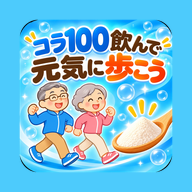
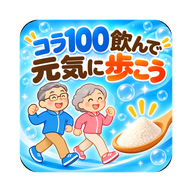
v1.6.0 白を下地に、青をメイン、ビタミンカラーをさし色に。アイコンに白フチ
- 全ページの下地を白に（起動時の背景色も白）
- 押すボタン・★必須・セットの丸・トップの矢印・見本図の頭と関節の輪をビタミンカラー（オレンジ→黄）に
- ホーム画面アイコンに白いフチ。丸く切り抜かれる用も白い地に
- sw.js: キャッシュ standsit-v29

diff --git a/kyokin.html b/kyokin.html
@@ -11,7 +11,7 @@
     @import url('https://fonts.googleapis.com/css2?family=Noto+Sans+JP:wght@400;700;900&display=swap');
     *, *::before, *::after { box-sizing: border-box; margin: 0; padding: 0; }
     :root {
-      --bg: #f5f9ff; --bg2: #e4eefb;
+      --bg: #ffffff; --bg2: #e4eefb;
       --primary: #003884; --primary2: #3f7bd0;
       --speed: #d97b00; --speed2: #f0a030;
       --text: #1c2b45; --text-mid: #4d5d78; --text-dim: #8b9ab3;
@@ -59,7 +59,7 @@
     .ex-name { font-size: 17px; font-weight: 900; margin-bottom: 3px; }
     .ex-sub { font-size: 12.5px; color: var(--text-mid); line-height: 1.5; }
     .cam-tag { display: inline-block; font-size: 11px; font-weight: 700; padding: 1px 8px; border-radius: 100px; margin-left: 4px; background: var(--bg2); color: var(--text-mid); vertical-align: 2px; }
-    .must-tag { display: inline-block; font-size: 11px; font-weight: 900; padding: 1px 8px; border-radius: 100px; margin-right: 4px; background: var(--primary); color: #fff; vertical-align: 2px; }
+    .must-tag { display: inline-block; font-size: 11px; font-weight: 900; padding: 1px 8px; border-radius: 100px; margin-right: 4px; background: #ef6c00; color: #fff; vertical-align: 2px; }
     .must-note { font-size: 12.5px; color: var(--text-mid); margin: -2px 4px 10px; line-height: 1.6; }
     .cam-tag.front { background: rgba(217,123,0,.15); color: var(--speed); }
     .detail {
@@ -76,7 +76,7 @@
     .btn-launch {
       width: 100%; margin-top: 16px; padding: 20px; border: none; border-radius: 100px;
       font-size: 20px; font-weight: 900; font-family: inherit; cursor: pointer; color: #fff;
-      background: linear-gradient(135deg, var(--primary), var(--primary2)); box-shadow: 0 4px 20px var(--shadow);
+      background: linear-gradient(135deg, #ef6c00, #ffa000); box-shadow: 0 4px 20px rgba(239,108,0,.3);
       opacity: .3; pointer-events: none; transition: all .2s;
     }
     .btn-launch.ready { opacity: 1; pointer-events: auto; }
@@ -108,7 +108,7 @@
     .big-label { font-size: 16px; font-weight: 700; color: rgba(255,255,255,.8); letter-spacing: .1em; margin-top: 6px; text-shadow: 0 1px 6px rgba(0,0,0,.4); }
     .set-dots { display: flex; justify-content: center; gap: 8px; margin-top: 12px; }
     .set-dots i { width: 14px; height: 14px; border-radius: 50%; border: 2px solid rgba(255,255,255,.8); }
-    .set-dots i.done { background: var(--primary2); border-color: var(--primary2); }
+    .set-dots i.done { background: #ffb300; border-color: #ffb300; }
 
     /* 動きの大きさゲージ（右端） */
     .gauge { position: fixed; right: 14px; top: 50%; transform: translateY(-50%); width: 26px; height: 46vh; z-index: 20;
@@ -140,7 +140,7 @@
     .btn-row { display: flex; gap: 12px; margin-bottom: 12px; }
     .btn { flex: 1; padding: 18px; border: none; border-radius: 18px; font-size: 18px; font-weight: 900; font-family: inherit; cursor: pointer; transition: all .18s cubic-bezier(.34,1.56,.64,1); }
     .btn:active { transform: scale(.96); }
-    .btn-go { background: linear-gradient(135deg, var(--primary), var(--primary2)); color: #fff; box-shadow: 0 4px 16px var(--shadow); }
+    .btn-go { background: linear-gradient(135deg, #ef6c00, #ffa000); color: #fff; box-shadow: 0 4px 16px rgba(239,108,0,.3); }
     .btn-stop { background: linear-gradient(135deg, var(--danger), #e05555); color: #fff; }
     .btn-sub { flex: 0 0 auto; padding: 18px 18px; background: var(--bg2); color: var(--text-mid); font-size: 16px; }
     .controls-panel.measuring .btn { padding: 12px; font-size: 15px; }
@@ -156,7 +156,7 @@
     #sideOverlay.show { display: flex; }
     .so-side { font-size: 64px; font-weight: 900; color: #ffe066; line-height: 1; text-shadow: 0 2px 12px rgba(0,0,0,.5); }
     .so-text { font-size: 18px; font-weight: 700; color: #fff; line-height: 1.7; text-shadow: 0 1px 6px rgba(0,0,0,.6); }
-    .so-btn { width: 100%; max-width: 320px; padding: 18px; border: none; border-radius: 100px; font-size: 19px; font-weight: 900; font-family: inherit; cursor: pointer; color: #fff; background: linear-gradient(135deg, var(--primary), var(--primary2)); box-shadow: 0 4px 18px var(--shadow); }
+    .so-btn { width: 100%; max-width: 320px; padding: 18px; border: none; border-radius: 100px; font-size: 19px; font-weight: 900; font-family: inherit; cursor: pointer; color: #fff; background: linear-gradient(135deg, #ef6c00, #ffa000); box-shadow: 0 4px 18px rgba(239,108,0,.3); }
     /* ===== まとめ（透明オーバーレイ・カメラが見える） ===== */
     #summary { position: fixed; inset: 0; z-index: 50; display: none; flex-direction: column; align-items: center; justify-content: center; gap: 10px; padding: 30px 26px; background: rgba(0,0,0,.35); }
     #summary.show { display: flex; }
@@ -174,7 +174,7 @@
     .sm-msg { font-size: 15px; color: #fff; text-align: center; line-height: 1.6; text-shadow: 0 1px 6px rgba(0,0,0,.6); }
     .sm-btns { display: flex; flex-direction: column; gap: 10px; width: 100%; max-width: 320px; }
     .cbtn { width: 100%; padding: 17px; border: none; border-radius: 100px; font-size: 18px; font-weight: 900; font-family: inherit; cursor: pointer; text-align: center; text-decoration: none; display: flex; align-items: center; justify-content: center; }
-    .cbtn-save { background: linear-gradient(135deg, var(--primary), var(--primary2)); color: #fff; box-shadow: 0 4px 18px var(--shadow); }
+    .cbtn-save { background: linear-gradient(135deg, #ef6c00, #ffa000); color: #fff; box-shadow: 0 4px 18px rgba(239,108,0,.3); }
     .cbtn-save:disabled { opacity: .55; }
     .cbtn-retry { background: rgba(255,255,255,.92); color: var(--text); }
     .cbtn-home { background: transparent; color: rgba(255,255,255,.85); font-size: 15px; padding: 10px; text-shadow: 0 1px 4px rgba(0,0,0,.5); }

diff --git a/js/kyokin-ui.js b/js/kyokin-ui.js
@@ -1,16 +1,16 @@
 // 貯筋運動の画面部品：オリジナルのアイコン（SVG）と、動きの見本アニメ（棒人間）
 (function () {
-  const C = { line: '#1c2b45', accent: '#003884', accent2: '#3f7bd0', soft: '#e4eefb', mid: '#8b9ab3', seal: '#d9381e' };
+  const C = { line: '#1c2b45', accent: '#003884', accent2: '#3f7bd0', soft: '#e4eefb', mid: '#8b9ab3', seal: '#d9381e', vit: '#ffa000', vit2: '#ef6c00' };
 
   // ===== オリジナルアイコン（線画・アプリの配色） =====
   const ICONS = {
     // 座位：いすと座る人
     sit: `<svg viewBox="0 0 48 48" fill="none" stroke="${C.line}" stroke-width="3" stroke-linecap="round" stroke-linejoin="round">
-      <circle cx="20" cy="9" r="4" fill="${C.accent2}" stroke="none"/>
+      <circle cx="20" cy="9" r="4" fill="${C.vit}" stroke="none"/>
       <path d="M20 27h9v12" stroke="${C.mid}"/><path d="M20 15v12h12v12"/><path d="M8 24v16M8 30h16M24 30v10" stroke="${C.mid}"/></svg>`,
     // 立位：立つ人といすの背
     stand: `<svg viewBox="0 0 48 48" fill="none" stroke="${C.line}" stroke-width="3" stroke-linecap="round" stroke-linejoin="round">
-      <circle cx="18" cy="8" r="4" fill="${C.accent2}" stroke="none"/>
+      <circle cx="18" cy="8" r="4" fill="${C.vit}" stroke="none"/>
       <path d="M18 14v14M18 28l-4 12M18 28l4 12M18 19l12 5"/><path d="M34 18v22M34 30h8M42 30v10" stroke="${C.mid}"/></svg>`,
     // 貯筋通帳：通帳と筋肉の山
     book: `<svg viewBox="0 0 48 48" fill="none" stroke="${C.line}" stroke-width="3" stroke-linecap="round" stroke-linejoin="round">
@@ -99,7 +99,7 @@
         ${leg(A.legL, B.legL)}
         <polyline fill="none" stroke="${C.accent}" stroke-width="5" stroke-linecap="round" points="${A.legR.map(pt).join(' ')}">
           ${anim('points', A.legR.map(pt).join(' '), B.legR.map(pt).join(' '))}</polyline>
-        <circle cx="${A.head[0]}" cy="${A.head[1]}" r="8" fill="${C.accent2}"/>`;
+        <circle cx="${A.head[0]}" cy="${A.head[1]}" r="8" fill="${C.vit}"/>`;
     } else {
       const chain = q => [q.sh, q.hip, q.knee, q.ankle, q.toe].map(pt).join(' ');
       const arm = q => [q.sh, q.hand].map(pt).join(' ');
@@ -114,14 +114,14 @@
           ${anim('points', arm(A), arm(B))}</polyline>
         <polyline fill="none" stroke="${C.line}" stroke-width="5" stroke-linecap="round" stroke-linejoin="round" points="${chain(A)}">
           ${anim('points', chain(A), chain(B))}</polyline>
-        <circle r="8" fill="${C.accent2}" cx="${A.head[0]}" cy="${A.head[1]}">
+        <circle r="8" fill="${C.vit}" cx="${A.head[0]}" cy="${A.head[1]}">
           ${anim('cx', A.head[0], B.head[0])}${anim('cy', A.head[1], B.head[1])}</circle>`;
       // 動いている関節に印（どこを見て数えるか）
       const ex = K.EXERCISES.find(e => e.id === exId);
       const focus = { 'sit-toe': 'ankle', 'sit-heel': 'ankle', 'std-tiptoe': 'ankle', 'sit-knee': 'knee',
         'sit-thigh': 'hip', 'std-thigh': 'hip', 'std-chair': 'knee', 'sit-situp': 'hip', 'std-situp': 'hip' }[exId];
       if (ex && focus) {
-        body += `<circle r="5" fill="none" stroke="${C.accent}" stroke-width="2.5" cx="${A[focus][0]}" cy="${A[focus][1]}">
+        body += `<circle r="5" fill="none" stroke="${C.vit2}" stroke-width="2.5" cx="${A[focus][0]}" cy="${A[focus][1]}">
           ${anim('cx', A[focus][0], B[focus][0])}${anim('cy', A[focus][1], B[focus][1])}</circle>`;
       }
     }

diff --git a/index.html b/index.html
@@ -15,7 +15,7 @@
     *, *::before, *::after { box-sizing: border-box; margin: 0; padding: 0; }
 
     :root {
-      --bg:      #f5f9ff;
+      --bg:      #ffffff;
       --bg2:     #e4eefb;
       --primary: #003884;
       --primary2:#3f7bd0;
@@ -36,8 +36,7 @@
 
     body {
       background:
-        radial-gradient(ellipse at 80% 0%, rgba(91,143,216,0.18) 0%, transparent 55%),
-        radial-gradient(ellipse at 10% 100%, rgba(0,56,132,0.10) 0%, transparent 50%),
+        radial-gradient(ellipse at 85% 0%, rgba(255,160,0,0.10) 0%, transparent 45%),
         var(--bg);
     }
 
@@ -165,6 +164,7 @@
     }
 
     .card-arrow {
+      color: #ef6c00 !important;
       font-size: 22px;
       color: var(--primary2);
     }
@@ -263,7 +263,7 @@
     <div class="nav-cards">
       <!-- 「運動を始める」（measure.html・いす座り立ち10回のテスト）はトップから外した。画面と記録は残してある（2026-11-26） -->
       <a class="nav-card primary" href="kyokin.html">
-        <div class="card-icon"><svg viewBox="0 0 48 48" width="40" height="40" fill="none" stroke="#1c2b45" stroke-width="3" stroke-linecap="round" stroke-linejoin="round"><circle cx="20" cy="9" r="4" fill="#3f7bd0" stroke="none"/><path d="M20 27h9v12" stroke="#8b9ab3"/><path d="M20 15v12h12v12"/><path d="M8 24v16M8 30h16M24 30v10" stroke="#8b9ab3"/><path d="M38 8v8M34 12h8" stroke="#003884"/></svg></div>
+        <div class="card-icon"><svg viewBox="0 0 48 48" width="40" height="40" fill="none" stroke="#1c2b45" stroke-width="3" stroke-linecap="round" stroke-linejoin="round"><circle cx="20" cy="9" r="4" fill="#ffa000" stroke="none"/><path d="M20 27h9v12" stroke="#8b9ab3"/><path d="M20 15v12h12v12"/><path d="M8 24v16M8 30h16M24 30v10" stroke="#8b9ab3"/><path d="M38 8v8M34 12h8" stroke="#003884"/></svg></div>
         <div class="card-text">
           <div class="card-title">貯筋運動</div>
           <div class="card-desc">10種目をカメラで数えて採点します</div>
@@ -303,7 +303,7 @@
       <strong>「ホーム画面に追加」</strong> を選んでください
     </div>
 
-    <p class="footer">毎日少しずつ、続けることが大切です 🌸<br><span style="font-size:11px; color: var(--text-dim);">v1.5.0</span></p>
+    <p class="footer">毎日少しずつ、続けることが大切です 🌸<br><span style="font-size:11px; color: var(--text-dim);">v1.6.0</span></p>
   </div>
 
   <script>

diff --git a/measure.html b/measure.html
@@ -11,7 +11,7 @@
     @import url('https://fonts.googleapis.com/css2?family=Noto+Sans+JP:wght@400;700;900&display=swap');
     *, *::before, *::after { box-sizing: border-box; margin: 0; padding: 0; }
     :root {
-      --bg:       #f5f9ff;
+      --bg:       #ffffff;
       --bg2:      #e4eefb;
       --primary:  #003884;
       --primary2: #3f7bd0;
@@ -94,7 +94,7 @@
     }
     .btn-launch.ready { opacity: 1; pointer-events: auto; }
     .btn-launch.speed-ready { background: linear-gradient(135deg, var(--speed), var(--speed2)); color: var(--white); }
-    .btn-launch.count-ready { background: linear-gradient(135deg, var(--count), var(--count2)); color: var(--white); }
+    .btn-launch.count-ready { background: linear-gradient(135deg, #ef6c00, #ffa000); color: var(--white); }
     .back-link {
       margin-top: 16px;
       display: flex; align-items: center; gap: 6px;
@@ -224,7 +224,7 @@
       cursor: pointer; text-align: center; text-decoration: none;
       display: flex; align-items: center; justify-content: center;
     }
-    .cbtn-save { background: linear-gradient(135deg, var(--count), var(--count2)); color: #fff; box-shadow: 0 4px 18px var(--shadow); }
+    .cbtn-save { background: linear-gradient(135deg, #ef6c00, #ffa000); color: #fff; box-shadow: 0 4px 18px var(--shadow); }
     .cbtn-save:disabled { opacity: .5; cursor: default; }
     .cbtn-retry {
       background: rgba(255,255,255,.9); color: var(--text);
@@ -295,7 +295,7 @@
       cursor: pointer; transition: all .18s cubic-bezier(.34,1.56,.64,1);
     }
     .btn:active { transform: scale(.96); }
-    .btn-sc  { background: linear-gradient(135deg, var(--count), var(--count2)); color: #fff; box-shadow: 0 4px 16px var(--shadow); }
+    .btn-sc  { background: linear-gradient(135deg, #ef6c00, #ffa000); color: #fff; box-shadow: 0 4px 16px var(--shadow); }
     .btn-ss  { background: linear-gradient(135deg, var(--speed), var(--speed2)); color: #fff; box-shadow: 0 4px 16px rgba(217,123,0,.25); }
     .btn-stop { background: linear-gradient(135deg, var(--danger), #e05555); color: #fff; box-shadow: 0 4px 16px rgba(204,51,51,.25); }
     .btn-reset {

diff --git a/tsucho.html b/tsucho.html
@@ -11,7 +11,7 @@
     @import url('https://fonts.googleapis.com/css2?family=Noto+Sans+JP:wght@400;700;900&display=swap');
     *, *::before, *::after { box-sizing: border-box; margin: 0; padding: 0; }
     :root {
-      --bg: #f5f9ff; --bg2: #e4eefb; --primary: #003884; --primary2: #3f7bd0;
+      --bg: #ffffff; --bg2: #e4eefb; --primary: #003884; --primary2: #3f7bd0;
       --text: #1c2b45; --text-mid: #4d5d78; --text-dim: #8b9ab3; --white: #fff;
       --good: #2f9e6e; --danger: #cc3333; --shadow: rgba(0,56,132,0.15);
     }
@@ -39,7 +39,7 @@
       color: var(--primary); font-size: 18px; font-weight: 900; font-family: inherit; cursor: pointer; display: flex; align-items: center; justify-content: center; gap: 8px;
       transition: all .2s cubic-bezier(.34,1.56,.64,1); }
     .col-btn:active { transform: scale(.97); }
-    .col-btn.done { background: linear-gradient(135deg, var(--primary), var(--primary2)); color: #fff; border-color: transparent; }
+    .col-btn.done { background: linear-gradient(135deg, #ef6c00, #ffa000); color: #fff; border-color: transparent; }
     .col-btn svg { width: 26px; height: 26px; }
     .col-stats { display: flex; justify-content: space-around; text-align: center; margin-top: 14px; }
     .col-stats .v { font-size: 26px; font-weight: 900; }
@@ -82,7 +82,7 @@
     td .sub { display: block; font-size: 11.5px; color: var(--text-dim); font-weight: 400; }
     .empty { text-align: center; color: var(--text-mid); padding: 26px 0; line-height: 1.8; }
     .btn-go { display: block; text-align: center; margin-top: 8px; padding: 18px; border-radius: 100px; color: #fff; font-weight: 900; font-size: 18px;
-      text-decoration: none; background: linear-gradient(135deg, var(--primary), var(--primary2)); box-shadow: 0 4px 18px var(--shadow); }
+      text-decoration: none; background: linear-gradient(135deg, #ef6c00, #ffa000); box-shadow: 0 4px 18px rgba(239,108,0,.3); }
     .del { border: none; background: none; color: var(--text-dim); font-size: 12px; font-family: inherit; text-decoration: underline; cursor: pointer; }
   </style>
 </head>

diff --git a/history.html b/history.html
@@ -12,7 +12,7 @@
     @import url('https://fonts.googleapis.com/css2?family=Noto+Sans+JP:wght@400;700;900&display=swap');
     *, *::before, *::after { box-sizing: border-box; margin: 0; padding: 0; }
     :root {
-      --bg:       #f5f9ff;
+      --bg:       #ffffff;
       --bg2:      #e4eefb;
       --primary:  #003884;
       --primary2: #3f7bd0;
@@ -133,7 +133,7 @@
       text-decoration: none; box-shadow: 0 4px 18px var(--shadow);
     }
     .btn-goto.speed { background: linear-gradient(135deg, var(--speed), var(--speed2)); color: #fff; }
-    .btn-goto.count { background: linear-gradient(135deg, var(--primary), var(--primary2)); color: #fff; }
+    .btn-goto.count { background: linear-gradient(135deg, #ef6c00, #ffa000); color: #fff; }
   </style>
 </head>
 <body>

diff --git a/settings.html b/settings.html
@@ -11,7 +11,7 @@
     @import url('https://fonts.googleapis.com/css2?family=Noto+Sans+JP:wght@400;700;900&display=swap');
     *, *::before, *::after { box-sizing: border-box; margin: 0; padding: 0; }
     :root {
-      --bg:      #f5f9ff;
+      --bg:      #ffffff;
       --bg2:     #e4eefb;
       --primary: #003884;
       --primary2:#3f7bd0;
@@ -199,7 +199,7 @@
       padding: 20px;
       border: none;
       border-radius: 100px;
-      background: linear-gradient(135deg, var(--primary), var(--primary2));
+      background: linear-gradient(135deg, #ef6c00, #ffa000);
       color: #fff;
       font-size: 18px; font-weight: 900;
       font-family: 'Noto Sans JP', sans-serif;

diff --git a/sw.js b/sw.js
@@ -1,4 +1,4 @@
-const CACHE_NAME = 'standsit-v28';
+const CACHE_NAME = 'standsit-v29';
 
 const BASE = '/standsit-pwa';
 
